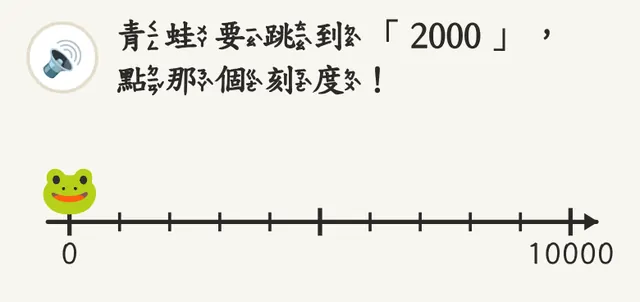
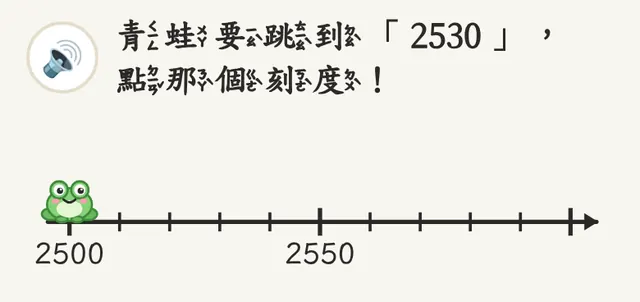
數線跳跳換成自己畫的可愛青蛙；說明頁不用等念完就能往下
Claude-Session: https://claude.ai/code/session_01WujgzrJXU51jfSr52ba2Qy

diff --git a/js/questions.js b/js/questions.js
@@ -301,6 +301,18 @@
   function svgOpen(w, h, label, cls) { return '<svg class="' + (cls || 'shapes') + '" viewBox="0 0 ' + w + ' ' + h + '" role="img" aria-label="' + label + '">'; }
 
   /* ---------- 1-2 📏 數線跳跳：點刻度，青蛙跳過去 ---------- */
+  /* 自己畫的小青蛙（坐著、腳底在 y≈21），不用表情符號：各家手機的 🐸 長得不一樣 */
+  var FROG = '<g stroke="#3F8A3A" stroke-width="2.5" stroke-linejoin="round">' +
+    '<ellipse cx="-21" cy="13" rx="11" ry="7" fill="#6BB85F"/><ellipse cx="21" cy="13" rx="11" ry="7" fill="#6BB85F"/>' +
+    '<ellipse cx="0" cy="2" rx="26" ry="19" fill="#86D27A"/>' +
+    '<circle cx="-12" cy="-15" r="10" fill="#86D27A"/><circle cx="12" cy="-15" r="10" fill="#86D27A"/>' +
+    '<ellipse cx="-9" cy="19" rx="7" ry="3.5" fill="#6BB85F"/><ellipse cx="9" cy="19" rx="7" ry="3.5" fill="#6BB85F"/></g>' +
+    '<ellipse cx="0" cy="7" rx="15" ry="10" fill="#E4F7D2"/>' +
+    '<circle cx="-12" cy="-15" r="6.5" fill="#fff"/><circle cx="12" cy="-15" r="6.5" fill="#fff"/>' +
+    '<circle cx="-11" cy="-14" r="3.6" fill="#2B2A28"/><circle cx="13" cy="-14" r="3.6" fill="#2B2A28"/>' +
+    '<circle cx="-10" cy="-15.5" r="1.3" fill="#fff"/><circle cx="14" cy="-15.5" r="1.3" fill="#fff"/>' +
+    '<ellipse cx="-16" cy="-2" rx="4.5" ry="2.8" fill="#FF9FB0"/><ellipse cx="16" cy="-2" rx="4.5" ry="2.8" fill="#FF9FB0"/>' +
+    '<path d="M-7 -4 Q0 3 7 -4" fill="none" stroke="#2B2A28" stroke-width="2.5" stroke-linecap="round"/>';
   function genFrog() {
     var step = pick([1, 10, 10, 100, 100, 100, 1000]), s;
     if (step === 1000) s = 0; else if (step === 100) s = R(0, 9) * 1000; else if (step === 10) s = R(10, 99) * 100; else s = R(100, 999) * 10;
@@ -313,7 +325,7 @@
       if (mode === 'ends' ? (i === 0 || i === 10) : (i === 0 || i === 5)) h += '<text x="' + x + '" y="' + (y + 48) + '" text-anchor="middle" font-size="34" font-weight="700" fill="currentColor">' + (s + i * step) + '</text>';
       if (i > 0) h += '<rect class="hit" data-hit="' + i + '" x="' + (x - 26) + '" y="' + (y - 50) + '" width="52" height="86" rx="10"/>';
     }
-    h += '<g class="frog" data-x0="' + x0 + '" data-dx="' + (x1 - x0) / 10 + '" data-y="' + (y - 18) + '" transform="translate(' + x0 + ',' + (y - 18) + ')"><text x="0" y="0" text-anchor="middle" font-size="56">🐸</text></g>';
+    h += '<g class="frog" data-x0="' + x0 + '" data-dx="' + (x1 - x0) / 10 + '" data-y="' + (y - 22) + '" transform="translate(' + x0 + ',' + (y - 22) + ')">' + FROG + '</g>';
     h += '</svg>';
     var endLabel = mode === 'ends' ? s + 10 * step : s + 5 * step, parts = mode === 'ends' ? 10 : 5;
     return { kind: 'tap', frog: true, text: '青蛙要跳到「' + target + '」，點那個刻度！', say: '青蛙要跳到' + target + '，點一下那個刻度！', svg: h,

diff --git a/js/tutorial.js b/js/tutorial.js
@@ -1,6 +1,6 @@
 /*
  * 遊戲說明（老師要求）：一頁一小塊遊戲畫面＋一句說明，自動念出來（不用按喇叭）。
- * 念完才能滑到下一頁；全部看完才出現「開始」。
+ * 不用等念完就能滑到下一頁（會自己讀字的學生）；翻到最後一頁才出現「開始」。
  * 第一次玩這種遊戲一定要看完整套；之後進來直接看到開始畫面，可以按「📖 再看一次說明」。
  * 遊戲中上方的 📖 也能隨時再看一次（會先暫停）。
  *
@@ -43,14 +43,14 @@
       var i = cur.i;
       narrate(s.say || s.text, function () { cur.heard[i] = true; if (cur.i === i) render(0); });
     }
-    if (last && cur.heard[cur.i]) allDone();
+    if (last) allDone(); // 翻到最後一頁就可以開始
   }
-  function canNext() { return !cur.gate || cur.heard[cur.i]; }
+  function canNext() { return true; } // 老師：有些學生會自己讀字，不用等念完就能往下
   function updateNext() {
     var last = cur.i === cur.slides.length - 1;
     $('tut-next').hidden = last;
     $('tut-next').disabled = !canNext();
-    $('tut-wait').style.visibility = canNext() || last ? 'hidden' : 'visible';
+    $('tut-wait').style.visibility = 'hidden';
   }
   function go(d) {
     if (!cur) return;

diff --git a/README.md b/README.md
@@ -16,7 +16,7 @@
 
 ## 遊戲說明
 - 一頁一小塊實際遊戲畫面（`images/tutorial/`）＋一句說明，**自動念出來**（說明頁不放喇叭）。
-- 這一頁念完才能滑到下一頁（也有「下一頁」按鈕）；全部看完才出現「開始」（跑酷是選速度）。沒有中文語音的裝置，每頁也至少要等一段時間（依字數）。
+- 不用等念完就能滑到下一頁（◀ ▶ 箭頭或左右滑），會自己讀字的學生可以直接往下；翻到最後一頁才出現 ▶ 開始（跑酷是選速度）。
 - 每種遊戲第一次玩一定要看完整套；之後進來是開始畫面，可以按「📖 再看一次說明」。遊戲中上方的 📖 也能隨時再看（會先暫停，看完倒數 3、2、1 繼續）。
 - 說明文字在各遊戲檔案的 `slides`；圖片是用測試瀏覽器擺好場景截下來的，改了畫面要重截。
 
@@ -97,7 +97,7 @@
 - `js/questions.js`：出題，關卡清單在最下面的 `UNITS`
 - `js/common.js`：紀錄、念出來、音效、注音、地圖、共用對話框
 - `js/zhuyin.js`：注音字型的破音字修正
-- `js/tutorial.js`：遊戲說明（一頁一頁、自動念、念完才能往下）
+- `js/tutorial.js`：遊戲說明（一頁一頁、自動念、翻到最後一頁才能開始）
 - `js/runner.js`：🏃 跑酷
 - `js/timed.js`：⏱ 2 分鐘挑戰
 - `js/spot.js`：🔍 小偵探
